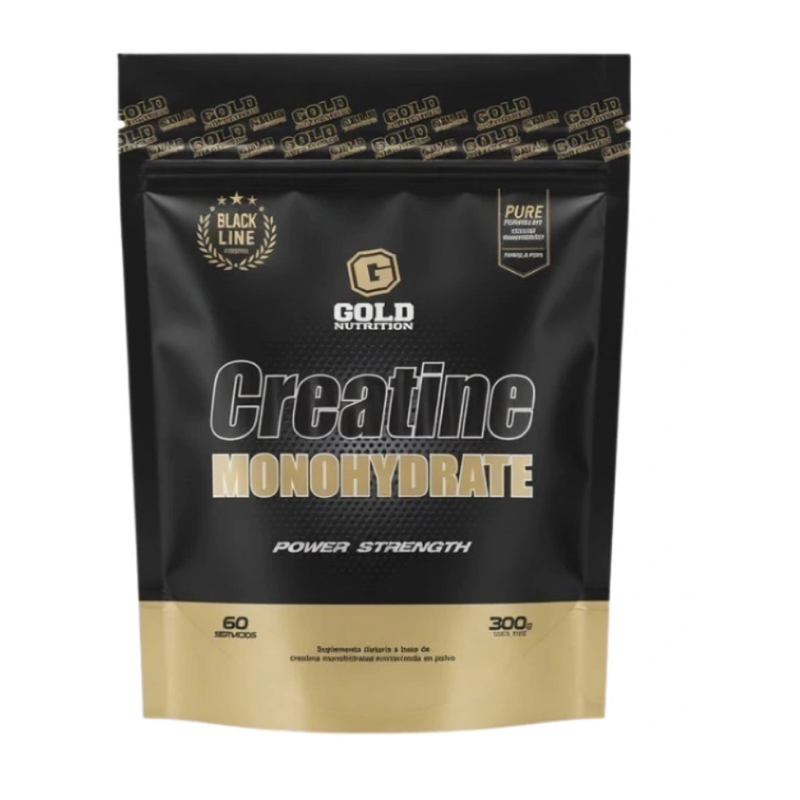
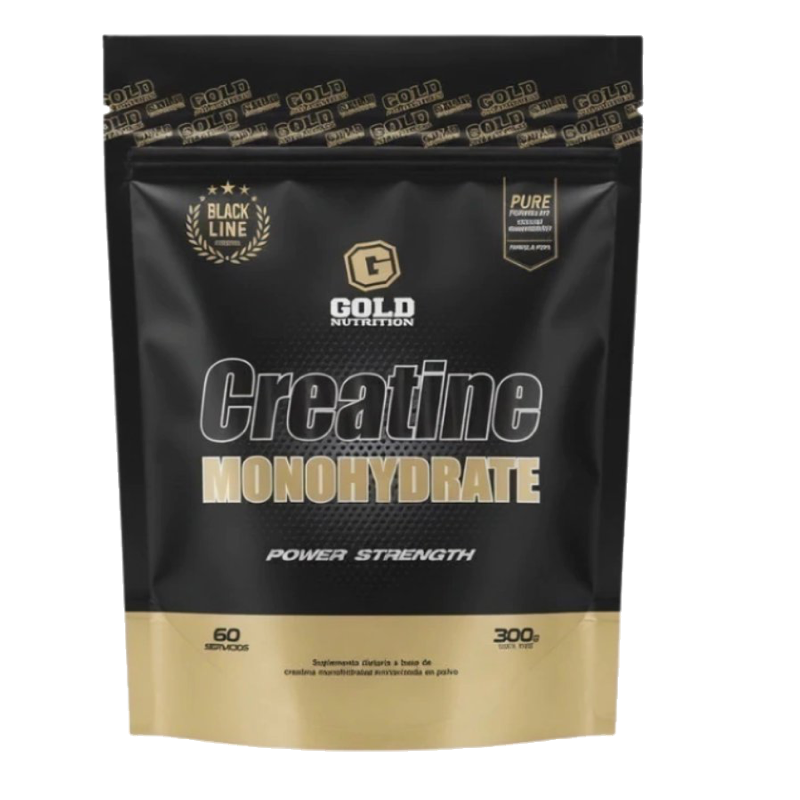
feat(v5.6): remove white backgrounds from all 3 product images, add studio Psychotic render, and remove rectangular box-shadow on product stage

diff --git a/js/app.js b/js/app.js
@@ -176,7 +176,7 @@ const DEFAULT_INDIVIDUAL_PRODUCTS = [
         id: 101, 
         name: "Creatina Star Nutrition 300g", 
         emoji: "⚡", 
-        customImage: "assets/images/prod-star-creatina.png?v=5.4",
+        customImage: "assets/images/prod-star-creatina.png?v=5.6",
         tubType: "creatine",
         tubLabel: "STAR",
         tubSub: "300G",
@@ -215,7 +215,7 @@ const DEFAULT_INDIVIDUAL_PRODUCTS = [
         id: 104, 
         name: "Creatina Gold Nutrition 300g", 
         emoji: "💪", 
-        customImage: "assets/images/prod-gold-creatina.png?v=5.4",
+        customImage: "assets/images/prod-gold-creatina.png?v=5.6",
         tubType: "creatine",
         tubLabel: "GOLD",
         tubSub: "BLACK LINE",
@@ -254,7 +254,7 @@ const DEFAULT_INDIVIDUAL_PRODUCTS = [
         id: 106, 
         name: "Pre-Entreno Insane Labz Psychotic", 
         emoji: "🔥", 
-        customImage: "assets/images/prod-psychotic.png?v=5.4",
+        customImage: "assets/images/prod-psychotic.png?v=5.6",
         tubType: "preworkout",
         tubLabel: "PSYCHOTIC",
         tubSub: "INSANE LABZ",
@@ -1721,7 +1721,7 @@ function renderTienda(items) {
                 <div class="product-image" id="prodImg_${product.id}">
                     <div class="product-tub-stage" id="prodTubStage_${product.id}">
                         ${product.customImage 
-                            ? `<img src="${product.customImage}" alt="${product.name}" class="product-custom-img" style="max-height: 175px; max-width: 175px; border-radius: 10px; object-fit: contain; margin: 0 auto; box-shadow: 0 8px 22px rgba(0,0,0,0.28); display:block;">` 
+                            ? `<img src="${product.customImage}" alt="${product.name}" class="product-custom-img">` 
                             : getProductSVG(product.tubType, product.tubLabel, product.tubSub)}
                     </div>
                 </div>

diff --git a/css/styles.css b/css/styles.css
@@ -2836,9 +2836,9 @@ body.theme-light .flavor-pill-btn.active {
 }
 
 .product-image {
-    background: radial-gradient(circle at 50% 55%, rgba(255, 255, 255, 0.07) 0%, rgba(0, 0, 0, 0.6) 100%);
+    background: radial-gradient(circle at 50% 55%, rgba(255, 255, 255, 0.08) 0%, rgba(0, 0, 0, 0.6) 100%);
     border-bottom: 1px solid var(--border-color);
-    height: 225px;
+    height: 240px;
     display: flex;
     flex-direction: column;
     align-items: center;
@@ -2846,11 +2846,11 @@ body.theme-light .flavor-pill-btn.active {
     font-size: 3.5rem;
     position: relative;
     overflow: hidden;
-    padding-top: 18px;
+    padding: 24px 12px 10px;
 }
 
 body.theme-light .product-image {
-    background: radial-gradient(circle at 50% 55%, #ffffff 0%, #f1ece1 100%);
+    background: radial-gradient(circle at 50% 55%, #ffffff 0%, #f3efe6 100%);
 }
 
 .product-tub-stage {
@@ -2859,6 +2859,23 @@ body.theme-light .product-image {
     justify-content: center;
     width: 100%;
     height: 100%;
+}
+
+.product-custom-img {
+    width: 100%;
+    height: 196px;
+    max-width: 215px;
+    max-height: 196px;
+    object-fit: contain;
+    margin: 0 auto;
+    display: block;
+    background: transparent;
+    filter: drop-shadow(0 10px 18px rgba(0, 0, 0, 0.22));
+    transition: transform 0.25s cubic-bezier(0.16, 1, 0.3, 1);
+}
+
+.product-card:hover .product-custom-img {
+    transform: scale(1.04) translateY(-2px);
 }
 
 .product-stage-hint {

diff --git a/index.html b/index.html
@@ -25,7 +25,7 @@
     <meta name="twitter:description" content="Proteínas Whey, Creatina Pura 200 Mesh y Pre-entreno Berserk. Elige tu bando: Luz o Oscuridad.">
     <meta name="twitter:image" content="assets/images/logo-oscuridad.png">
 
-    <link rel="stylesheet" href="css/styles.css?v=5.5">
+    <link rel="stylesheet" href="css/styles.css?v=5.6">
 
     <!-- Pre-detección de bando guardado: ingreso directo sin parpadeo del Gateway -->
     <script>
@@ -1220,6 +1220,6 @@
     </a>
 
     <!-- ARCHIVO JS MODULAR -->
-    <script src="js/app.js?v=5.5" defer></script>
+    <script src="js/app.js?v=5.6" defer></script>
 </body>
 </html>
